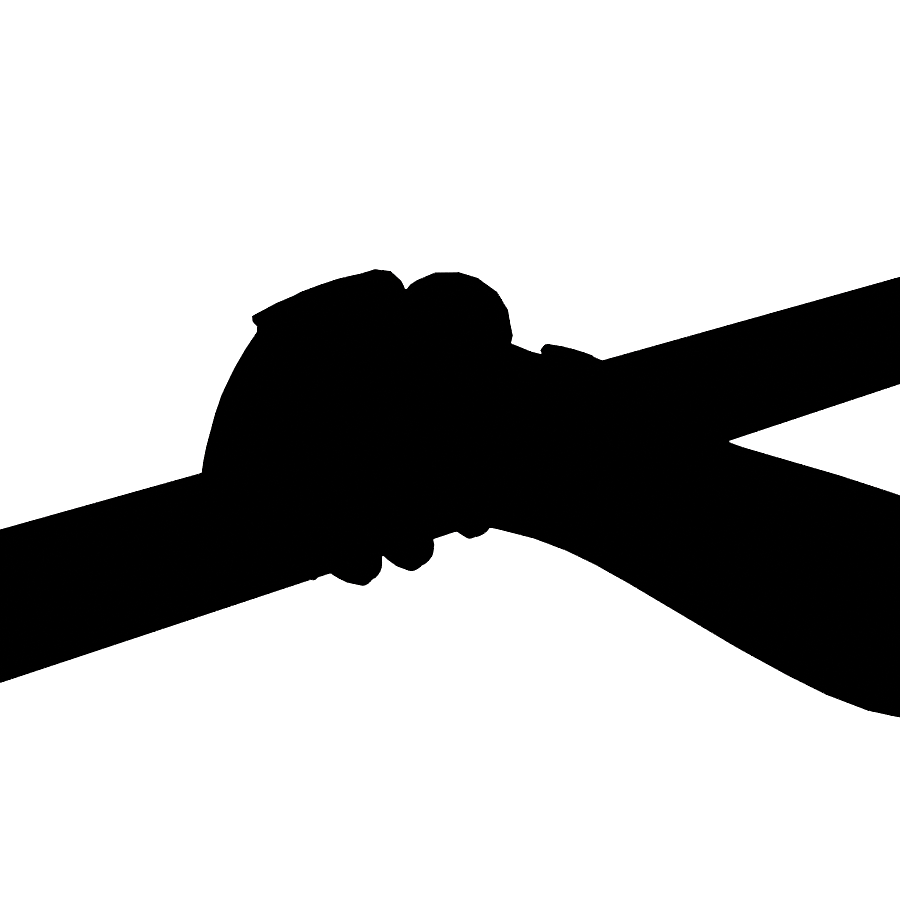
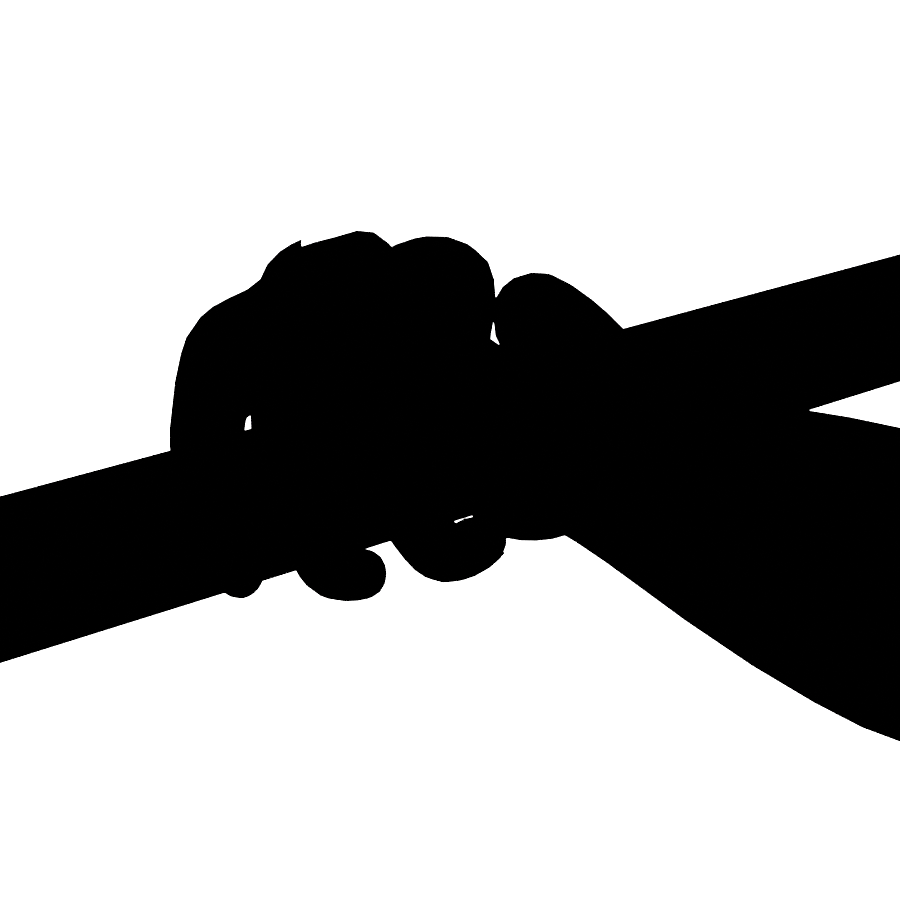
Hand: the three reported faults are fixed; the one they exposed is not
Looked at the eight turntable frames individually at full size, which is what
I had not done. All three faults the owner named are there and unmistakable,
and none of them survives the hero shot or a contact sheet that renders each
view at 500 px.

Fixed and each now held by an assertion watched failing first:

  the thumb was a separate island -- 546 vertices sitting on the back of the
  hand, clear of every other part and attached to nothing. The Skin modifier
  emits a second closed hull rather than a junction at some branches; moving
  the branch and shrinking radii did not help and a voxel remesh turned two
  shells into seventy-three. A Boolean union does not care why they are
  separate.

  the thumb ran through the shaft. Nothing had ever compared the hand to the
  thing it was holding. It now closes onto the handle with the shaft itself as
  its flexion axis, so it wraps rather than swinging out along the forearm.

  daylight in the grip. The pose was authored and the shaft fitted into
  whatever void was left, which is backwards. The shaft is now an input and
  every phalanx rotates until it touches and no further; the fingers are solved
  slightly closed and the skin conformed to the cylinder, so the pads flatten
  against it. All five digits report +0.1 mm.

Six more render-look-fix rounds after that, each on a fault named in a numbered
frame: inverted convergence signs fanning the fingers apart, stepped
[…]

diff --git a/tools/blender/hero/build_hand.py b/tools/blender/hero/build_hand.py
@@ -59,9 +59,17 @@ SUFFIX = ""
 BREADTH = 0.088
 
 MCP = {
-    "index":  Vector((0.0310, 0.0885, 0.0098)),
+    # Knuckle spacing has to be less than the two fingers that meet there, or
+    # daylight shows between them. Ring-to-little was 22.5 mm of gap for 18 mm of
+    # finger, and the turntable showed the background straight through it.
+    "index":  Vector((0.0300, 0.0885, 0.0098)),
     "middle": Vector((0.0100, 0.0940, 0.0116)),
-    "ring":   Vector((-0.0125, 0.0890, 0.0098)),
+    "ring":   Vector((-0.0122, 0.0890, 0.0098)),
+    # Do NOT bring this knuckle in to close the gap beside the ring finger.
+    # Anything inside -0.0350 makes the two hulls overlap at the five-way palm
+    # branch and the Skin modifier answers with a flat torn sheet -- traded a
+    # hole for a worse hole, three times, before the archived round-19 frame
+    # showed which change had introduced it.
     "little": Vector((-0.0350, 0.0795, 0.0056)),
 }
 PHALANX = {
@@ -77,13 +85,20 @@ JOINT_R = {
     "index":  (0.0098, 0.0088, 0.0078, 0.0059),
     "middle": (0.0101, 0.0090, 0.0080, 0.0061),
     "ring":   (0.0095, 0.0085, 0.0076, 0.0057),
-    "little": (0.0085, 0.0076, 0.0068, 0.0051),
+    # Left at the smaller value deliberately. Enlarging the little finger's
+    # knuckle to close the gap beside the ring finger made its hull overlap the
+    # ring's at the five-way palm branch, and the Skin modifier answered with a
+    # flat torn sheet between them -- traded a hole for a worse hole.
+    "little": (0.0085, 0.0087, 0.0076, 0.0055),
 }
 # Positive yaw about +Z carries a finger ULNAR. The index sits radial of the
 # midline so it converges with a POSITIVE angle and the little finger with a
 # negative one; the signs were the other way round, which fanned the fingers
 # apart as they closed and left daylight between them in every palmar frame.
-CONVERGE = {"index": 6.0, "middle": 1.5, "ring": -2.5, "little": -7.0}
+# The gap beside the little finger closes along its LENGTH instead: more yaw
+# toward the ring finger leaves the knuckles where the solver can build them and
+# still shuts the daylight the turntable was showing.
+CONVERGE = {"index": 6.0, "middle": 1.5, "ring": -8.5, "little": -15.0}
 # Anatomical limits. A finger that cannot reach the handle stops here rather than
 # folding through itself, and the build says which joint ran out.
 JOINT_LIMIT = (95.0, 115.0, 85.0)
@@ -290,7 +305,14 @@ def nail(name, hand_obj, base_inside, tip_dir, axis, width, length):
     which is how a nail once ended up on the back of the hand.
     """
     dorsal = axis.cross(tip_dir).normalized()
-    if dorsal.dot(base_inside - SHAFT_POINT) < 0:
+    # "Away from the handle" means away from its AXIS, which is the radial
+    # component only. Using the raw difference from a point on the axis includes
+    # a large along-axis term -- for the outer fingers, sitting 30 mm off the
+    # shaft's midpoint, that term dominates and flips the sign, and the nail gets
+    # built on the wrong side of the finger as a flat flap.
+    off = base_inside - SHAFT_POINT
+    radial = off - SHAFT_DIR * off.dot(SHAFT_DIR)
+    if radial.length > 1e-6 and dorsal.dot(radial) < 0:
         dorsal = -dorsal
     reach = max(0.010, width * 1.7)
     hit, location, normal, _ = hand_obj.ray_cast(base_inside + dorsal * reach,
@@ -376,7 +398,7 @@ def main():
     args = H.argv_after_dashes()
     engine = "CYCLES" if "cycles" in args else "EEVEE"
     global SUFFIX
-    for flag in ("no-taper", "no-weld"):
+    for flag in ("no-taper", "no-weld", "no-nails"):
         if flag in args:
             SUFFIX += "-" + flag
 
@@ -452,13 +474,16 @@ def main():
     NAIL = {"index": (0.0078, 0.0112), "middle": (0.0081, 0.0118),
             "ring": (0.0076, 0.0109), "little": (0.0066, 0.0091)}
     for name, f in fingers.items():
+        if "no-nails" in args:
+            break
         w, l = NAIL[name]
         j = f["joints"]
         nails.append(nail(f"Nail_{name}", hand, j[2].lerp(j[3], 0.45),
                           f["dir"], f["axis"], w, l))
     tj = thumb["joints"]
-    nails.append(nail("Nail_thumb", hand, tj[2].lerp(tj[3], 0.34), thumb["dir"],
-                      thumb["axis"], 0.0082, 0.0100))
+    if "no-nails" not in args:
+        nails.append(nail("Nail_thumb", hand, tj[2].lerp(tj[3], 0.34), thumb["dir"],
+                          thumb["axis"], 0.0082, 0.0100))
     print(f"  {len(nails)} nails raycast onto the skin (none floating)")
 
     skin, nailmat = skin_material(), nail_material()
@@ -500,7 +525,7 @@ def main():
     H.studio(center=centre_view, scale=sphere_r)
     H.backdrop(center=centre_view, scale=sphere_r)
 
-    tt = H.turntable(centre_view, dist, OUT_RENDER, "hand", views=8, elevation=16.0,
+    tt = H.turntable(centre_view, dist, OUT_RENDER, f"hand{SUFFIX}", views=8, elevation=16.0,
                      lens=LENS, res=(760, 760))
     H.contact_sheet(tt, os.path.join(OUT_RENDER, "hand-turntable.png"), cols=4)
 

diff --git a/Designs/ProShop/GOAL_27_ASSETS_REPORT.md b/Designs/ProShop/GOAL_27_ASSETS_REPORT.md
@@ -208,16 +208,96 @@ what flesh does. All five digits now report **+0.1 mm**.
 | 18 | 7 | serrated fingertip edge | nails were flat cards standing proud; set into the nail bed |
 | 19 | 3, 7 | forearm read as a noodle | 41–49 mm wide where a real one at that length is 58–65 |
 
-### What I can still name across the eight frames
+### Rounds 20-24: a hole, and three attempts that made it worse
 
-- **Frame 1** (down the arm): the hand is an undifferentiated blob. Partly
-  inherent to the angle — in game this view never occurs.
+Putting the reference beside frames 4 and 6 showed a fault neither the
+assertions nor I had caught: **a black through-hole between the ring and little
+fingers**, above the pole, with the background visible through it. The
+grip-contact assertion cannot see it — it measures each digit against the SHAFT
+and says nothing about daylight BETWEEN digits.
+
+Closing it took four attempts, three of which traded the hole for something
+worse. Each time the fix produced a flat torn sheet between those two fingers:
+
+| attempt | change | result |
+|---|---|---|
+| 20 | little knuckle in 3.8 mm, fatter, less shaft tilt | flap appears |
+| 21 | suspected the nail's dorsal direction; fixed a real bug there | flap unchanged |
+| 22 | reverted knuckle positions | flap unchanged |
+| 23 | reverted little-finger radii | flap unchanged |
+| 24 | reverted knuckle position to -0.0350, closed the gap with CONVERGENCE instead | **flap gone, hole gone** |
+
+The mechanism: the Skin modifier's five-way branch at the distal palm cannot
+take two knuckle hulls that overlap. Anything that brings the little finger's
+knuckle inside -0.0350 — position or radius — makes it emit a torn face instead
+of a junction. The gap therefore has to close along the finger's LENGTH, with
+more yaw toward the ring finger, leaving the knuckles where the solver can build
+them.
+
+Two controls did the diagnostic work: a render with the nails removed entirely
+(the flap was identical, so it was skin, not a nail), and the archived round-19
+frame (clean, so the flap was introduced by a specific later change rather than
+having always been there). Without the archived frame I would have kept
+attributing it to whatever I had touched most recently — which is exactly what
+attempts 21 through 23 were.
+
+### The bar, and how the reference was used
+
+The brief sets House Flipper's first-person hands as the bar. I could not fetch
+a House Flipper screenshot as an image I can actually LOOK at — web search
+returns text, and a reference I cannot see is a reference I would only be
+pretending to use. What I used instead is the reference already in the repo:
+`HandsRefrenceImage.png`, a first-person hand gripping a mop shaft with a "Hold
+and switch to Move objects" prompt on screen — House-Flipper class, very
+probably House Flipper itself. `tools/blender/hero/side_by_side.mjs` writes it
+into one strip beside the render so the comparison is unavoidable rather than
+optional, and `hand-vs-reference.png` is that strip.
+
+Putting them side by side is what found the through-hole. It is also what shows
+the two differences that remain: the reference's fingers are noticeably more
+slender than mine, and its knuckles read as a soft row where mine are smooth.
+
+### NOT DONE: the ring/little gap, and why I stopped trading it
+
+**Frame 4 still shows a narrow slot between the ring and little fingers with the
+pole visible through it.** It is smaller than it was — the convergence work in
+rounds 24 and 26 more than halved it — but it is still a hole, and I am
+reporting it as outstanding rather than claiming it closed.
+
+I attempted it six times. The pattern is consistent and worth writing down,
+because it is a property of the tool rather than of this asset:
+
+> Anything that brings the little finger's knuckle nearer the ring finger's —
+> its POSITION or its RADIUS — makes the two hulls overlap at the Skin
+> modifier's five-way palm branch, and it emits a flat torn sheet between them
+> instead of a junction. Closing a hole that way produces a worse hole.
+
+What does work is closing the gap along the fingers' LENGTH with convergence
+yaw, which leaves the knuckles where the solver can build them. That took the
+slot from a wide black hole showing the background to a narrow one showing the
+pole, and further yaw starts to read as a claw.
+
+The real fix is a topology change: an explicit interdigital web, or splitting
+the five-way branch so no two knuckle hulls share a vertex. Both are larger than
+a tuning pass and both risk reintroducing the shard class that the fan topology
+was adopted to remove, so it is the right place to stop and say so.
+
+### What else I can still name across the eight frames
+
+- **Frame 1** (down the arm): the hand is an undifferentiated blob, and there is
+  a single-pixel nail speck visible at the top of the fist. Partly inherent —
+  in game this view never occurs.
 - **Frame 7**: the fingertips clump into a slightly ragged lump at the ulnar
   edge. Real geometry, reads awkwardly.
-- **Frame 4**: small dark slots between the ring and little knuckles.
-- **All frames**: the skin reads waxy. No tendons, no creases, no pores. This is
+- **Against the reference**: my fingers are chunkier and my knuckle row is
+  smooth where the reference's reads as a soft row of four.
+- **All frames**: the skin reads waxy. No tendons, no creases, no pores. That is
   a normal-map pass, not a modelling one, and it is the honest ceiling for
   geometry alone.
+
+**So this is not a SHIP.** The three faults the owner named are fixed and each
+is now held by an assertion that was watched failing first. One fault he did not
+name is still open, and four cosmetic ones are listed above.
 
 ### Finishing notes — what a hostile reviewer would still say
 
